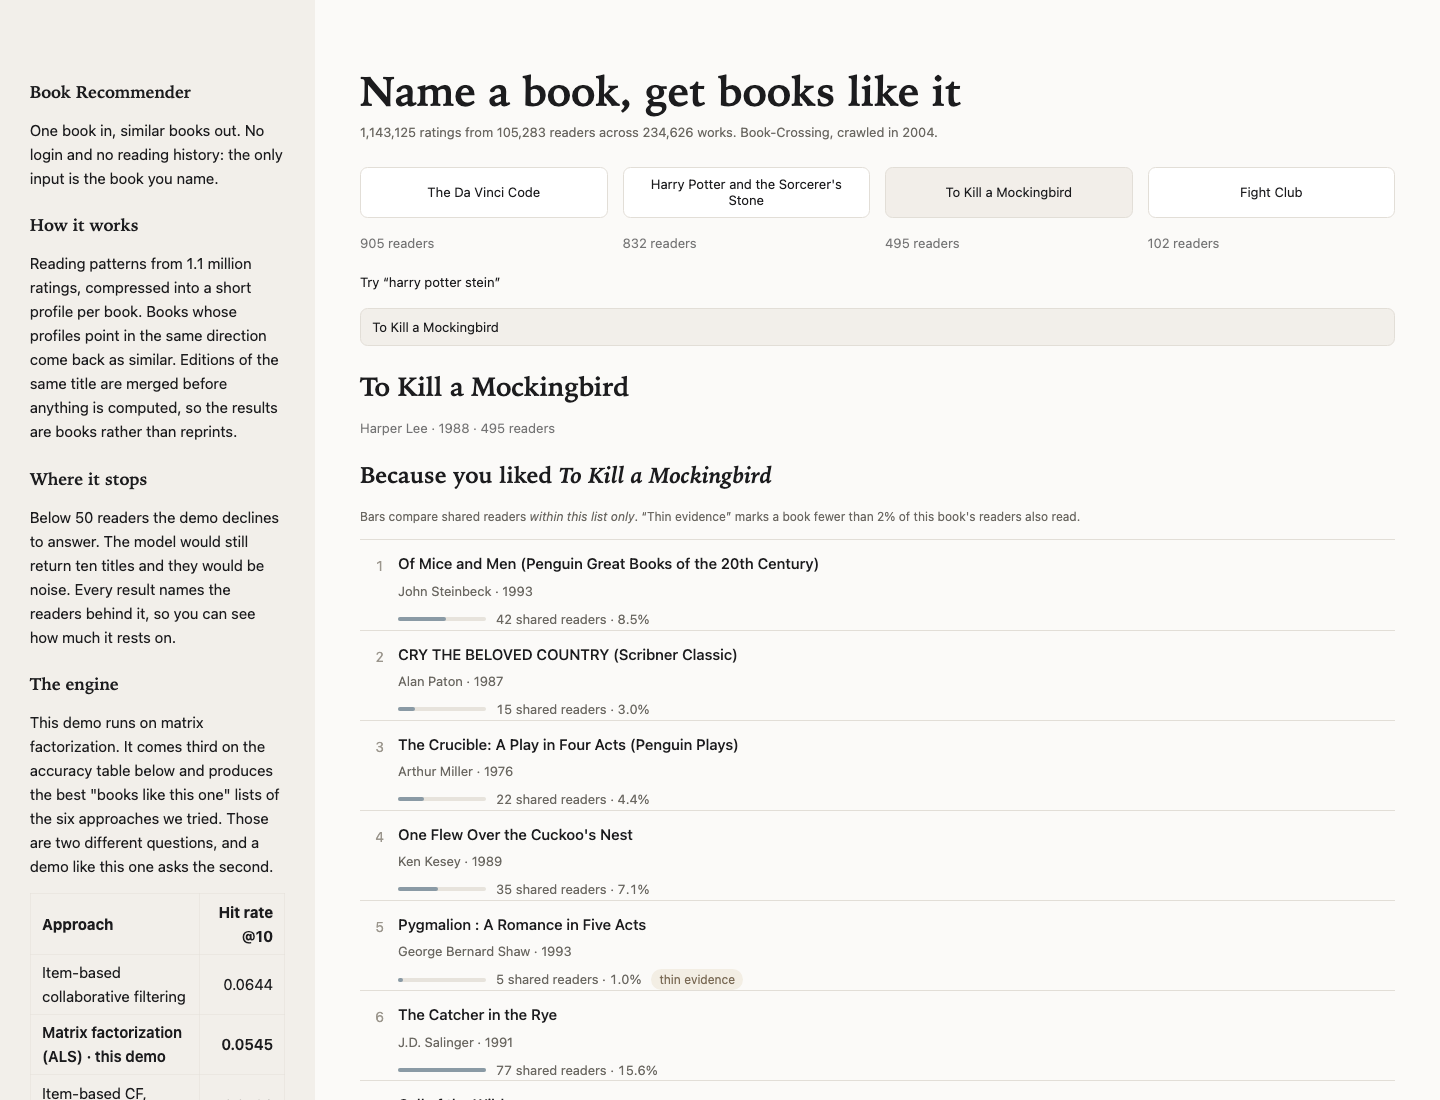
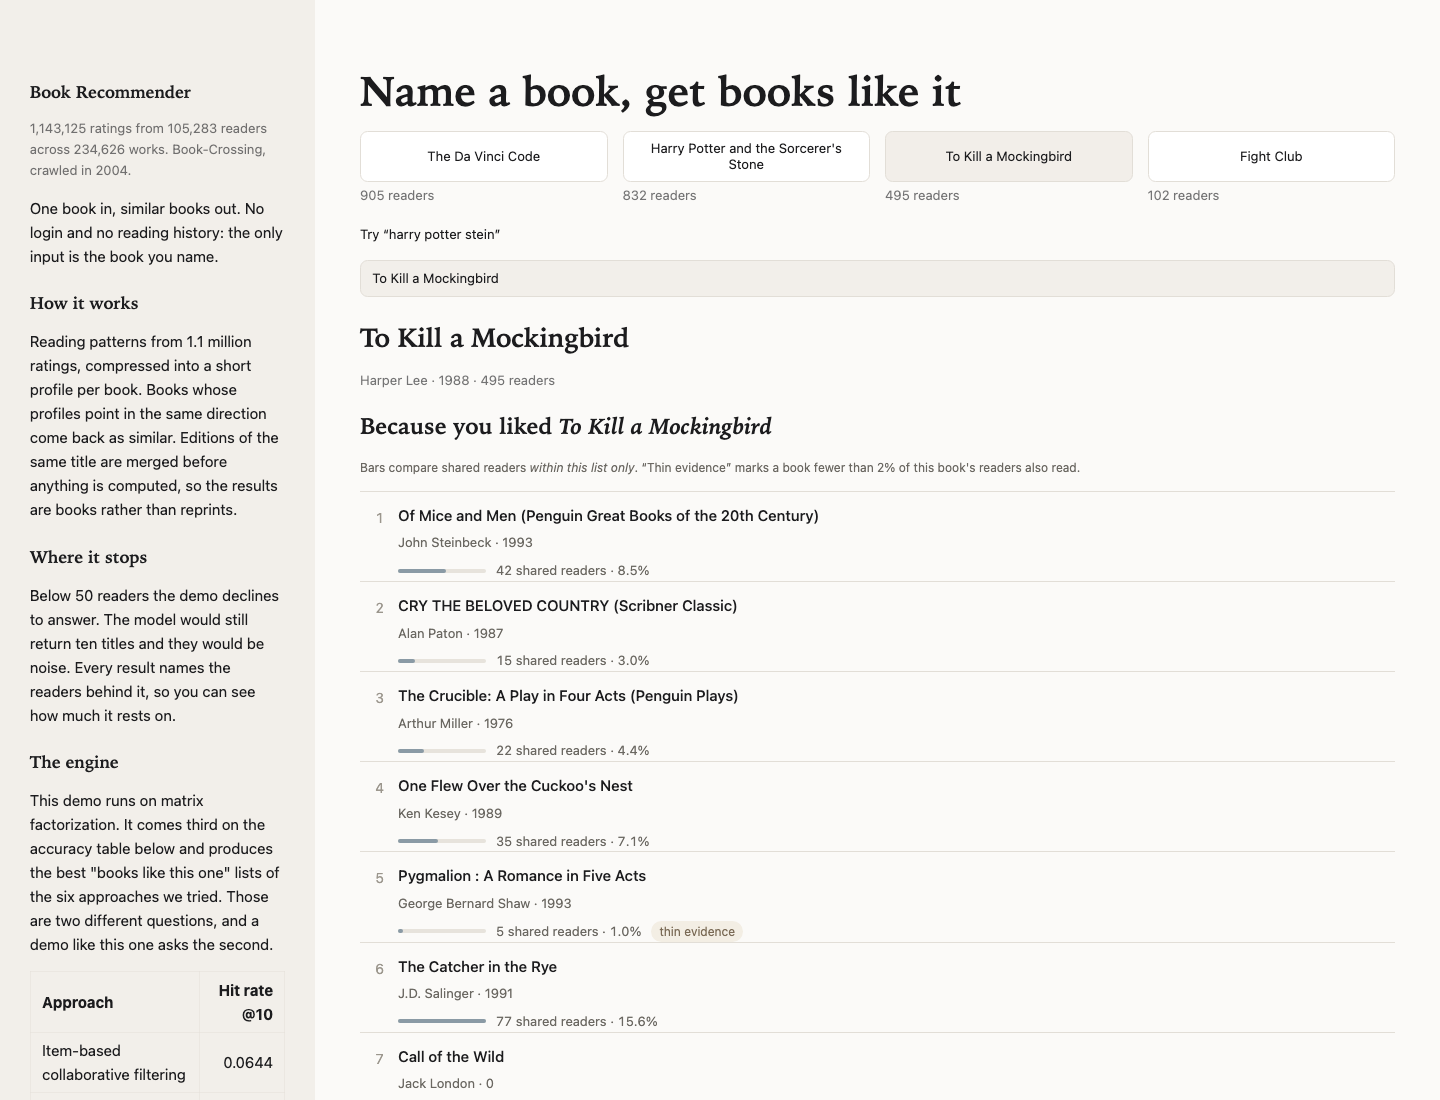
Provenance line into the sidebar, reader counts against their buttons
Both the project owner's, on seeing it run.

The corpus line moves from under the page title to directly under "Book
Recommender" in the sidebar. M15.6's rule is untouched — exactly one place in
the app states the corpus size, and it is counted off the assets at runtime —
only its position changed.

The reader counts now sit 2px under their buttons instead of floating in the
middle of the gap Streamlit puts between two elements in a column. Scoped to a
keyed container, so every other caption keeps its normal spacing, and measured
in the DOM rather than eyeballed.

Screenshots re-shot.

diff --git a/app/main.py b/app/main.py
@@ -86,7 +86,12 @@ STYLE = """
   /* ...except the tertiary "try this query" link, which is a line of text, not a target. */
   [data-testid="stBaseButton-tertiary"] {min-height: 0; height: auto; font-size: 13px;}
 
-  .provenance {font-size: 13px; color: #6b6862; margin: -0.6rem 0 1.6rem 0;}
+  /* The reader count belongs *to* its button, so it sits against it rather than floating in
+     the middle of the gap Streamlit puts between two elements in a column. Scoped to the
+     keyed container, so every other caption in the app keeps its normal spacing. */
+  .st-key-anchor-row [data-testid="stElementContainer"]:has([data-testid="stCaptionContainer"])
+    {margin-top: -0.85rem;}
+
   .legend {font-size: 12px; color: #6b6862; margin: 0.2rem 0 0.9rem 0;}
 
   /* One row of the result list. No card, no fill, no border — a hairline and the type
@@ -181,6 +186,11 @@ def sidebar(engine: DemoEngine) -> None:
         # 09.08.2026): the sidebar's first line is the only place the thing gets named, and
         # a section label is not a name.
         st.markdown("### Book Recommender")
+        # M15.6's provenance line, moved here from under the page title (review,09.08.).
+        # Its rule is unchanged and is the reason it is a function rather than a string:
+        # exactly one place in the app states the corpus size, and it is counted off the
+        # assets at runtime.
+        st.caption(corpus_line(engine))
         st.markdown(
             "One book in, similar books out. No login and no reading history: the only "
             "input is the book you name."
@@ -245,17 +255,19 @@ def main() -> None:
     sidebar(engine)
 
     st.title("Name a book, get books like it")
-    st.markdown(f'<div class="provenance">{html.escape(corpus_line(engine))}</div>', unsafe_allow_html=True)
 
-    columns = st.columns(len(ANCHORS))
-    for column, (label, isbn) in zip(columns, ANCHORS.items(), strict=True):
-        if column.button(label, use_container_width=True):
-            st.session_state["query"] = label
-            st.session_state["pinned_isbn"] = isbn
-        # The reader count belongs on the button. Without it a thinly read anchor looks like
-        # a broken app; with it, the calibration story (L63) is visible in the product
-        # rather than only asserted on a slide.
-        column.caption(f"{engine.describe(isbn).readers:,} readers")
+    # Keyed so the CSS above can pull the reader counts up against their buttons without
+    # touching every other caption in the app.
+    with st.container(key="anchor-row"):
+        columns = st.columns(len(ANCHORS))
+        for column, (label, isbn) in zip(columns, ANCHORS.items(), strict=True):
+            if column.button(label, use_container_width=True):
+                st.session_state["query"] = label
+                st.session_state["pinned_isbn"] = isbn
+            # The reader count belongs on the button. Without it a thinly read anchor looks
+            # like a broken app; with it, the calibration story (L63) is visible in the
+            # product rather than only asserted on a slide.
+            column.caption(f"{engine.describe(isbn).readers:,} readers")
 
     # Every writer of `st.session_state["query"]` has to run **before** the text input that
     # owns that key is instantiated — Streamlit raises `StreamlitAPIException` otherwise,
